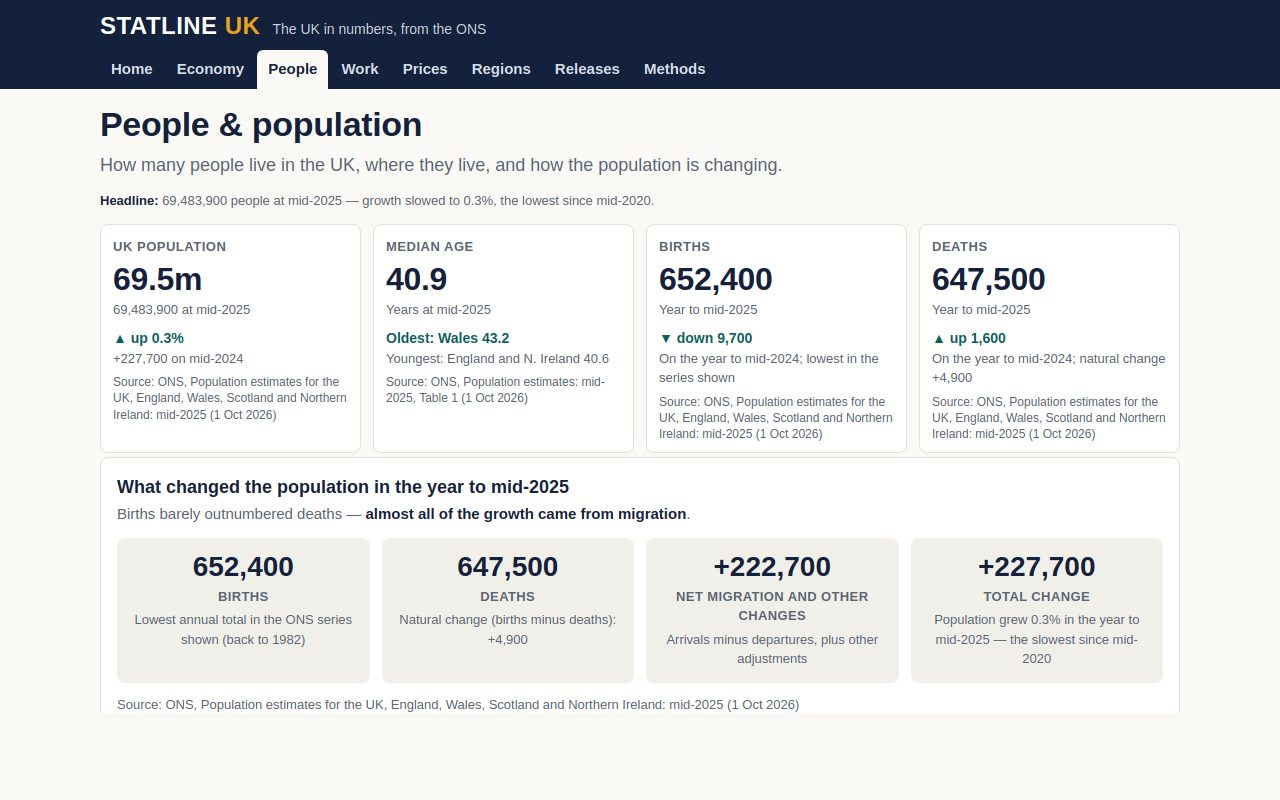
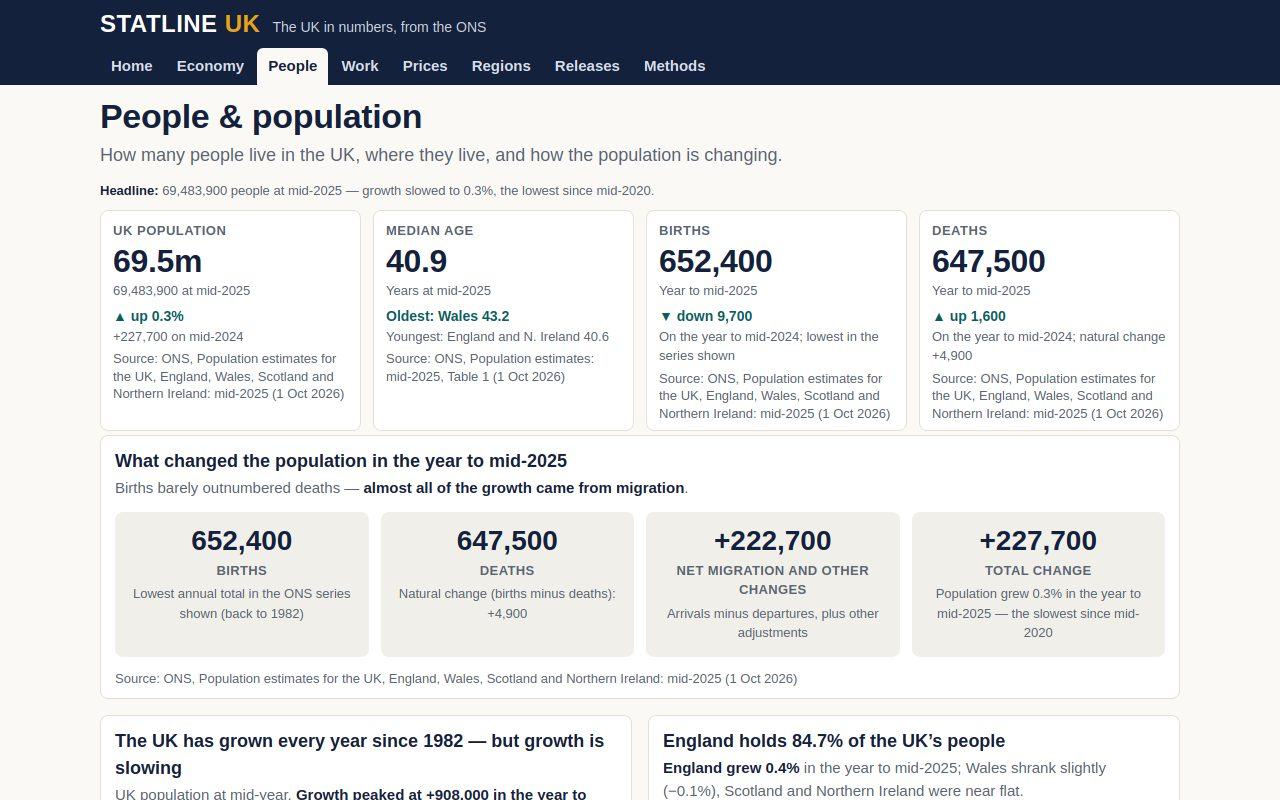
Polish: fold-tightened cover + Economy, ONS rounding note, legible chart labels
- Home cover now shows both charts whole at 1280x800: tighter header/
  hero/KPI/card spacing, compact 200px home charts, one-line takeaways
  and standfirst, KPI source lines shortened
- Economy GDP bars (incl. -10.4% 2020 bar + year labels) and quarterly
  line now fit in 800px (210px charts)
- Chart axis/value labels 12px -> 13px (no text below 13px in the
  first viewport); line charts padR 54 -> 64 so the last-point label
  (Q3 2026) no longer clips at the SVG edge
- Labour figures: ONS Nov 2026 bulletin publishes both the changes
  (+0.4pp employment, -0.3pp unemployment) and the year-ago rounded
  rates (75.1%, 5.0%); the 0.1pp gap is ONS rounding from unrounded
  estimates, so all four numbers stand - documented in Methods
  (Percentage-point changes) instead of falsifying either side
- Phone layout intact (390px re-shot, 2-col KPI, scroll nav)

diff --git a/app/views.js b/app/views.js
@@ -52,20 +52,20 @@ const Views = (function () {
   // main.js calls these on period/unit changes; the first call builds the
   // card's initial content too.
 
-  function gdpAnnual(range) {
+  function gdpAnnual(range, height) {
     const pts = D.gdp.annualGrowth.filter(function (p) { return range === "5y" ? p.year >= 2021 : true; })
       .map(function (p) { return { label: String(p.year), value: p.growth, highlight: p.year === 2025 }; });
-    const chart = Charts.vbar(pts, { unit: "%", decimals: 1, aria: "Real GDP growth by year, percent" });
+    const chart = Charts.vbar(pts, { unit: "%", decimals: 1, height: height || 260, aria: "Real GDP growth by year, percent" });
     const table = Charts.dataTable(["Year", "Real GDP growth"],
       D.gdp.annualGrowth.map(function (p) { return [String(p.year), (p.growth > 0 ? "+" : "") + p.growth.toFixed(1) + "%"]; }),
       "Real GDP growth, year on year. 2020 is the pandemic contraction; 2021 the rebound.");
     return { chart: chart, table: table };
   }
 
-  function cpihLine(range) {
+  function cpihLine(range, height) {
     const pts = D.prices.monthly.filter(function (p, i) { return range === "12m" ? i >= 12 : true; })
       .map(function (p) { return { label: p.m, value: p.v }; });
-    const chart = Charts.line(pts, { unit: "%", decimals: 1, target: D.prices.target, targetLabel: "Bank target 2%",
+    const chart = Charts.line(pts, { unit: "%", decimals: 1, height: height || 260, target: D.prices.target, targetLabel: "Bank target 2%",
       aria: "CPIH 12-month inflation rate by month, percent" });
     const table = Charts.dataTable(["Month", "CPIH 12-month rate"],
       D.prices.monthly.map(function (p) { return [p.m, p.v.toFixed(1) + "%"]; }),
@@ -73,10 +73,10 @@ const Views = (function () {
     return { chart: chart, table: table };
   }
 
-  function gdpQuarterly(range) {
+  function gdpQuarterly(range, height) {
     const pts = D.gdp.quarterly.filter(function (p) { return range === "2026" ? p.q.indexOf("2026") !== -1 : true; })
       .map(function (p) { return { label: p.q, value: p.growth }; });
-    const chart = Charts.line(pts, { unit: "%", decimals: 1, labelEvery: 1,
+    const chart = Charts.line(pts, { unit: "%", decimals: 1, height: height || 260, labelEvery: 1,
       aria: "Real GDP growth by quarter, percent on previous quarter" });
     const table = Charts.dataTable(["Quarter", "Real GDP growth (on previous quarter)"],
       D.gdp.quarterly.map(function (p) { return [p.q, (p.growth > 0 ? "+" : "") + p.growth.toFixed(1) + "%"]; }),
@@ -150,11 +150,11 @@ const Views = (function () {
 
   // Registry main.js uses to rebuild a card after a control change.
   const ChartBuilders = {
-    "home-gdp": function (range) { return gdpAnnual(range || "7y"); },
-    "home-cpih": function (range) { return cpihLine(range || "24m"); },
+    "home-gdp": function (range) { return gdpAnnual(range || "7y", 200); },
+    "home-cpih": function (range) { return cpihLine(range || "24m", 200); },
     "home-nations": function () { return nationsBars(); },
-    "economy-gdp": function (range) { return gdpAnnual(range || "7y"); },
-    "economy-quarterly": function (range) { return gdpQuarterly(range || "all"); },
+    "economy-gdp": function (range) { return gdpAnnual(range || "7y", 210); },
+    "economy-quarterly": function (range) { return gdpQuarterly(range || "all", 210); },
     "people-pop": function (range) { return populationLine(range || "11y"); },
     "people-nations": function () { return nationsBars(); },
     "people-life": function () { return lifeExpectancyBars(); },
@@ -184,15 +184,15 @@ const Views = (function () {
       { route: "#/releases", title: "Latest releases", big: "10 ONS releases", text: "Every bulletin behind the figures on this site, dated and linked to its section." }
     ];
     let s = '<section class="hero"><h1>The UK in numbers</h1>' +
-      '<p class="standfirst">Population, the economy, work and prices — from the latest Office for National Statistics releases, in one place.</p>' +
+      '<p class="standfirst">Population, the economy, work and prices — from the latest ONS releases, in one place.</p>' +
       '<p class="updated"><strong>Updated ' + esc(D.site.updated) + '.</strong> ' + esc(D.site.note) + '</p></section>';
     s += '<div class="kpi-grid">' + D.kpis.map(kpiTile).join("") + '</div>';
     s += '<div class="grid-2">' +
       chartCard("home-gdp", "GDP grew 1.2% in 2025 — the fastest since 2022",
-        "<strong>Real GDP rose 1.2% in 2025</strong>, after 1.1% in 2024. The 2020 pandemic fall of 10.4% is the deepest in the series.",
+        "<strong>Real GDP rose 1.2% in 2025</strong>, after 1.1% in 2024.",
         gdp.chart, D.gdp.source, periodControls("home-gdp", [{ key: "7y", label: "2019–2025" }, { key: "5y", label: "2021–2025" }], "7y")) +
       chartCard("home-cpih", "Inflation is 3.7% — above the Bank of England’s 2% target",
-        "<strong>CPIH rose 3.7%</strong> in the year to October 2026, up from 3.6% in September. It has been above target for two years.",
+        "<strong>CPIH rose 3.7%</strong> in the year to Oct 2026, up from 3.6% in Sep.",
         cpih.chart, D.prices.source, periodControls("home-cpih", [{ key: "24m", label: "24 months" }, { key: "12m", label: "12 months" }], "24m")) +
       '</div>';
     s += '<div class="grid-2">' +
@@ -449,6 +449,7 @@ const Views = (function () {
       '<dt>CPIH vs CPI</dt><dd>CPIH is CPI plus owner occupiers’ housing costs and council tax. It is the ONS’s lead measure of inflation. The Bank of England’s 2% target is set on CPI.</dd>' +
       '<dt>Seasonally adjusted (SA)</dt><dd>Adjusted to remove regular seasonal patterns (for example, hiring before Christmas), so quarter-to-quarter changes can be compared fairly.</dd>' +
       '<dt>Median vs mean</dt><dd>The median is the middle earner: half earn more, half earn less. The mean (average) is pulled up by very high earners, so the ONS reports pay as a median.</dd>' +
+      '<dt>Percentage-point changes</dt><dd>The ONS works out a change in percentage points from its unrounded estimates, then rounds the result. So the published change can differ by 0.1 points from subtracting two rounded figures: unemployment is 4.6%, down 0.3 points on the year, while the rounded rate a year earlier was 5.0%; employment is 75.4%, up 0.4 points, against 75.1% a year earlier.</dd>' +
       '<dt>Provisional</dt><dd>ASHE 2025 estimates are provisional and may be revised in the next annual release.</dd>' +
       '<dt>Real terms</dt><dd>Adjusted for inflation (here, CPIH), so a “real” rise means pay grew faster than prices.</dd>' +
       '<dt>Pay conversions</dt><dd>On the Work page, £ per hour is the weekly median divided by 37.5 hours and £ per year is the weekly median times 52. Those are conversions for comparison; the published ASHE figures are £19.67 an hour and £39,039 a year for full-time workers in post at least a year.</dd>' +

diff --git a/app/style.css b/app/style.css
@@ -26,7 +26,7 @@ body {
 }
 a { color: var(--teal-dark); }
 a:hover { text-decoration-thickness: 2px; }
-h1 { font-size: 34px; line-height: 1.15; margin: 0 0 8px; letter-spacing: -0.01em; }
+h1 { font-size: 34px; line-height: 1.15; margin: 0 0 6px; letter-spacing: -0.01em; }
 h2 { font-size: 22px; line-height: 1.25; margin: 0 0 6px; }
 h3 { font-size: 17px; margin: 0 0 4px; }
 p { margin: 0 0 12px; }
@@ -35,7 +35,7 @@ li { margin-bottom: 4px; }
 
 /* Header */
 .site-header { background: var(--navy); color: #fff; position: sticky; top: 0; z-index: 20; }
-.header-inner { max-width: 1120px; margin: 0 auto; padding: 8px 20px 0; }
+.header-inner { max-width: 1120px; margin: 0 auto; padding: 6px 20px 0; }
 .brand-row { display: flex; align-items: baseline; gap: 12px; flex-wrap: wrap; }
 .wordmark { color: #fff; text-decoration: none; font-size: 24px; font-weight: 800; letter-spacing: 0.02em; }
 .wordmark .accent { color: var(--amber); }
@@ -44,64 +44,64 @@ li { margin-bottom: 4px; }
 .main-nav::-webkit-scrollbar { display: none; }
 .main-nav a {
   color: #D8DEE8; text-decoration: none; font-size: 15px; font-weight: 600;
-  padding: 8px 11px; border-radius: 6px 6px 0 0; white-space: nowrap;
+  padding: 7px 11px; border-radius: 6px 6px 0 0; white-space: nowrap;
 }
 .main-nav a:hover { color: #fff; background: rgba(255,255,255,0.12); }
 .main-nav a[aria-current="page"] { color: var(--navy); background: var(--paper); }
 
 /* Layout */
-.wrap { max-width: 1120px; margin: 0 auto; padding: 16px 20px 40px; }
-.hero { margin-bottom: 12px; }
-.standfirst { font-size: 17px; color: var(--slate); max-width: 720px; margin: 0 0 6px; }
+.wrap { max-width: 1120px; margin: 0 auto; padding: 12px 20px 32px; }
+.hero { margin-bottom: 8px; }
+.standfirst { font-size: 17px; color: var(--slate); max-width: 900px; margin: 0 0 4px; }
 .updated { font-size: 13px; color: var(--slate); margin: 0; }
 .updated strong { color: var(--navy); }
-.section { margin: 20px 0; }
-.section-head { display: flex; align-items: baseline; justify-content: space-between; gap: 12px; flex-wrap: wrap; margin-bottom: 12px; }
+.section { margin: 16px 0; }
+.section-head { display: flex; align-items: baseline; justify-content: space-between; gap: 12px; flex-wrap: wrap; margin-bottom: 10px; }
 .section-head p { margin: 0; color: var(--slate); font-size: 15px; }
-.source { font-size: 13px; color: var(--slate); margin: 8px 0 0; }
+.source { font-size: 13px; color: var(--slate); margin: 6px 0 0; }
 .lede { font-size: 18px; color: var(--slate); max-width: 760px; }
 
 /* KPI tiles */
-.kpi-grid { display: grid; grid-template-columns: repeat(6, 1fr); gap: 12px; margin: 14px 0 4px; }
+.kpi-grid { display: grid; grid-template-columns: repeat(6, 1fr); gap: 12px; margin: 10px 0 4px; }
 .kpi-grid.cols-4 { grid-template-columns: repeat(4, 1fr); }
 .kpi-grid.cols-5 { grid-template-columns: repeat(5, 1fr); }
 .kpi {
   background: var(--card); border: 1px solid var(--rule); border-radius: 8px;
-  padding: 12px 12px 10px; min-height: 132px;
+  padding: 10px 12px 8px;
 }
-.kpi-label { font-size: 13px; font-weight: 700; text-transform: uppercase; letter-spacing: 0.04em; color: var(--slate); margin-bottom: 6px; }
+.kpi-label { font-size: 13px; font-weight: 700; text-transform: uppercase; letter-spacing: 0.04em; color: var(--slate); margin-bottom: 4px; }
 .kpi-value { font-size: 32px; font-weight: 800; line-height: 1.05; letter-spacing: -0.01em; }
-.kpi-detail { font-size: 13px; color: var(--slate); margin-top: 4px; }
-.kpi-change { font-size: 14px; font-weight: 700; color: var(--teal-dark); margin-top: 8px; }
+.kpi-detail { font-size: 13px; color: var(--slate); margin-top: 3px; }
+.kpi-change { font-size: 14px; font-weight: 700; color: var(--teal-dark); margin-top: 5px; }
 .kpi-change.down-good { color: var(--teal-dark); }
 .kpi-change.warn { color: var(--amber-dark); }
 .kpi-note { font-size: 13px; color: var(--slate); }
-.kpi-source { font-size: 12px; color: var(--slate); margin-top: 6px; line-height: 1.35; }
+.kpi-source { font-size: 13px; color: var(--slate); margin-top: 4px; line-height: 1.35; }
 
 /* Cards and grids */
 .grid-2 { display: grid; grid-template-columns: 1fr 1fr; gap: 16px; }
 .grid-3 { display: grid; grid-template-columns: repeat(3, 1fr); gap: 16px; }
 .card {
   background: var(--card); border: 1px solid var(--rule); border-radius: 8px;
-  padding: 16px 16px 12px; margin-bottom: 16px;
+  padding: 12px 14px 10px; margin-bottom: 16px;
 }
 .card h3 { font-size: 18px; }
-.card .takeaway { font-size: 15px; color: var(--slate); margin: 0 0 10px; }
+.card .takeaway { font-size: 15px; color: var(--slate); margin: 0 0 8px; }
 .card .takeaway strong { color: var(--navy); }
 .chart-title { font-size: 16px; font-weight: 700; margin: 0 0 2px; }
 
 /* Controls: period toggles, unit toggle, chart/table toggle */
-.controls { display: flex; gap: 6px; flex-wrap: wrap; margin: 0 0 10px; align-items: center; }
+.controls { display: flex; gap: 6px; flex-wrap: wrap; margin: 0 0 8px; align-items: center; }
 .controls .ctl-label { font-size: 13px; font-weight: 700; color: var(--slate); margin-right: 2px; }
 .btn {
   font: inherit; font-size: 14px; font-weight: 600; cursor: pointer;
   background: var(--soft); color: var(--navy); border: 1px solid var(--rule);
-  border-radius: 6px; padding: 6px 11px;
+  border-radius: 6px; padding: 5px 10px;
 }
 .btn:hover { border-color: var(--navy); }
 .btn[aria-pressed="true"] { background: var(--navy); color: #fff; border-color: var(--navy); }
 .btn.linklike { background: none; border: none; color: var(--teal-dark); text-decoration: underline; padding: 6px 2px; }
-.toggle-row { display: flex; justify-content: flex-end; margin-top: 6px; }
+.toggle-row { display: flex; justify-content: flex-end; margin-top: 4px; }
 
 /* Tables */
 .tablewrap { overflow-x: auto; }

diff --git a/app/charts.js b/app/charts.js
@@ -43,7 +43,7 @@ const Charts = (function () {
     for (let g = 0; g <= 4; g++) {
       const gv = min + (span * g) / 4, gy = y(gv);
       s += '<line x1="' + padL + '" y1="' + gy.toFixed(1) + '" x2="' + (W - padR) + '" y2="' + gy.toFixed(1) + '" stroke="' + GRID + '" stroke-width="1"/>';
-      s += '<text x="' + (padL - 6) + '" y="' + (gy + 4).toFixed(1) + '" font-size="12" fill="' + SLATE + '" text-anchor="end">' + fmt(gv, opts.decimals || 0) + (opts.unit || "") + '</text>';
+      s += '<text x="' + (padL - 6) + '" y="' + (gy + 4).toFixed(1) + '" font-size="13" fill="' + SLATE + '" text-anchor="end">' + fmt(gv, opts.decimals || 0) + (opts.unit || "") + '</text>';
     }
     s += '<line x1="' + padL + '" y1="' + y(0).toFixed(1) + '" x2="' + (W - padR) + '" y2="' + y(0).toFixed(1) + '" stroke="' + NAVY + '" stroke-width="1.5"/>';
     points.forEach(function (p, i) {
@@ -58,7 +58,7 @@ const Charts = (function () {
       } else {
         s += '<text x="' + cx.toFixed(1) + '" y="' + (top - 7).toFixed(1) + '" font-size="13" font-weight="700" fill="' + NAVY + '" text-anchor="middle">' + (p.value > 0 ? "+" : "") + fmt(p.value, opts.decimals || 0) + (opts.unit || "") + '</text>';
       }
-      s += '<text x="' + cx.toFixed(1) + '" y="' + (H - 10) + '" font-size="12" fill="' + SLATE + '" text-anchor="middle">' + esc(p.label) + '</text>';
+      s += '<text x="' + cx.toFixed(1) + '" y="' + (H - 10) + '" font-size="13" fill="' + SLATE + '" text-anchor="middle">' + esc(p.label) + '</text>';
     });
     return s + '</svg>';
   }
@@ -68,7 +68,7 @@ const Charts = (function () {
   function line(points, opts) {
     opts = opts || {};
     const W = opts.width || 560, H = opts.height || 260;
-    const padL = 46, padR = 54, padT = 26, padB = 30;
+    const padL = 46, padR = 64, padT = 26, padB = 30;
     const values = points.map(function (p) { return p.value; });
     let lo = Math.min.apply(null, values), hi = Math.max.apply(null, values);
     if (opts.target !== undefined) { lo = Math.min(lo, opts.target); hi = Math.max(hi, opts.target); }
@@ -81,11 +81,11 @@ const Charts = (function () {
     for (let g = 0; g <= 4; g++) {
       const gv = lo + ((hi - lo) * g) / 4, gy = y(gv);
       s += '<line x1="' + padL + '" y1="' + gy.toFixed(1) + '" x2="' + (W - padR) + '" y2="' + gy.toFixed(1) + '" stroke="' + GRID + '" stroke-width="1"/>';
-      s += '<text x="' + (padL - 6) + '" y="' + (gy + 4).toFixed(1) + '" font-size="12" fill="' + SLATE + '" text-anchor="end">' + fmt(gv, opts.decimals === undefined ? 1 : opts.decimals) + (opts.unit || "") + '</text>';
+      s += '<text x="' + (padL - 6) + '" y="' + (gy + 4).toFixed(1) + '" font-size="13" fill="' + SLATE + '" text-anchor="end">' + fmt(gv, opts.decimals === undefined ? 1 : opts.decimals) + (opts.unit || "") + '</text>';
     }
     if (opts.target !== undefined) {
       s += '<line x1="' + padL + '" y1="' + y(opts.target).toFixed(1) + '" x2="' + (W - padR) + '" y2="' + y(opts.target).toFixed(1) + '" stroke="' + AMBER + '" stroke-width="1.5" stroke-dasharray="5 4"/>';
-      s += '<text x="' + (padL + 4) + '" y="' + (y(opts.target) - 6).toFixed(1) + '" font-size="12" font-weight="700" fill="#8A6400">' + esc(opts.targetLabel || "") + '</text>';
+      s += '<text x="' + (padL + 4) + '" y="' + (y(opts.target) - 6).toFixed(1) + '" font-size="13" font-weight="700" fill="#8A6400">' + esc(opts.targetLabel || "") + '</text>';
     }
     const d = points.map(function (p, i) { return (i === 0 ? "M" : "L") + x(i).toFixed(1) + " " + y(p.value).toFixed(1); }).join(" ");
     s += '<path d="' + d + '" fill="none" stroke="' + TEAL + '" stroke-width="2.5" stroke-linejoin="round"/>';
@@ -93,7 +93,7 @@ const Charts = (function () {
       const showLabel = opts.labelEvery ? (i % opts.labelEvery === 0) : (i === points.length - 1);
       s += '<circle cx="' + x(i).toFixed(1) + '" cy="' + y(p.value).toFixed(1) + '" r="3.5" fill="#FAF9F6" stroke="' + TEAL + '" stroke-width="2"/>';
       if (i % Math.ceil(points.length / 6) === 0 || i === points.length - 1) {
-        s += '<text x="' + x(i).toFixed(1) + '" y="' + (H - 10) + '" font-size="12" fill="' + SLATE + '" text-anchor="middle">' + esc(p.label) + '</text>';
+        s += '<text x="' + x(i).toFixed(1) + '" y="' + (H - 10) + '" font-size="13" fill="' + SLATE + '" text-anchor="middle">' + esc(p.label) + '</text>';
       }
       if (showLabel) {
         if (i === 0) {
@@ -106,7 +106,7 @@ const Charts = (function () {
       }
     });
     const last = points[points.length - 1];
-    s += '<text x="' + (x(points.length - 1) + 8).toFixed(1) + '" y="' + (y(last.value) + 4).toFixed(1) + '" font-size="12" font-weight="700" fill="' + NAVY + '">' + esc(last.label) + '</text>';
+    s += '<text x="' + (x(points.length - 1) + 8).toFixed(1) + '" y="' + (y(last.value) + 4).toFixed(1) + '" font-size="13" font-weight="700" fill="' + NAVY + '">' + esc(last.label) + '</text>';
     return s + '</svg>';
   }
 

diff --git a/app/data.js b/app/data.js
@@ -19,19 +19,19 @@ const STATLINE = {
       source: "ONS, Population estimates" },
     { id: "gdp", label: "GDP, nominal", value: "£3.03tn", detail: "£3,035 billion in 2025",
       change: "▲ up 1.2% real", changeNote: "Real growth in 2025; nominal +4.8%", period: "2025",
-      source: "ONS, GDP first quarterly estimate" },
+      source: "ONS, GDP estimate" },
     { id: "cpih", label: "Inflation (CPIH)", value: "3.7%", detail: "12-month rate",
-      change: "▲ up 0.1pp", changeNote: "On September 2026 (3.6%)", period: "Oct 2026",
-      source: "ONS, Consumer price inflation" },
+      change: "▲ up 0.1pp", changeNote: "On Sep 2026 (3.6%)", period: "Oct 2026",
+      source: "ONS, CPIH bulletin" },
     { id: "unemployment", label: "Unemployment rate", value: "4.6%", detail: "Aged 16+, seasonally adjusted",
       change: "▼ down 0.3pp", changeNote: "On the year (5.0% in Jul–Sep 2025)", period: "Jul–Sep 2026",
-      source: "ONS, Employment in the UK" },
+      source: "ONS, Labour market" },
     { id: "employment", label: "Employment rate", value: "75.4%", detail: "Aged 16–64, seasonally adjusted",
       change: "▲ up 0.4pp", changeNote: "On the year (75.1% in Jul–Sep 2025)", period: "Jul–Sep 2026",
-      source: "ONS, Employment in the UK" },
+      source: "ONS, Labour market" },
     { id: "pay", label: "Median full-time pay", value: "£766.60", detail: "Per week, before tax",
-      change: "▲ up 5.3%", changeNote: "On April 2024 (£728.27); +1.1% in real terms", period: "Apr 2025",
-      source: "ONS, Employee earnings (ASHE)" }
+      change: "▲ up 5.3%", changeNote: "On Apr 2024 (£728.27); +1.1% real", period: "Apr 2025",
+      source: "ONS, ASHE 2025" }
   ],
 
   // UK population, mid-year estimates (ONS, Population estimates: mid-2025,
